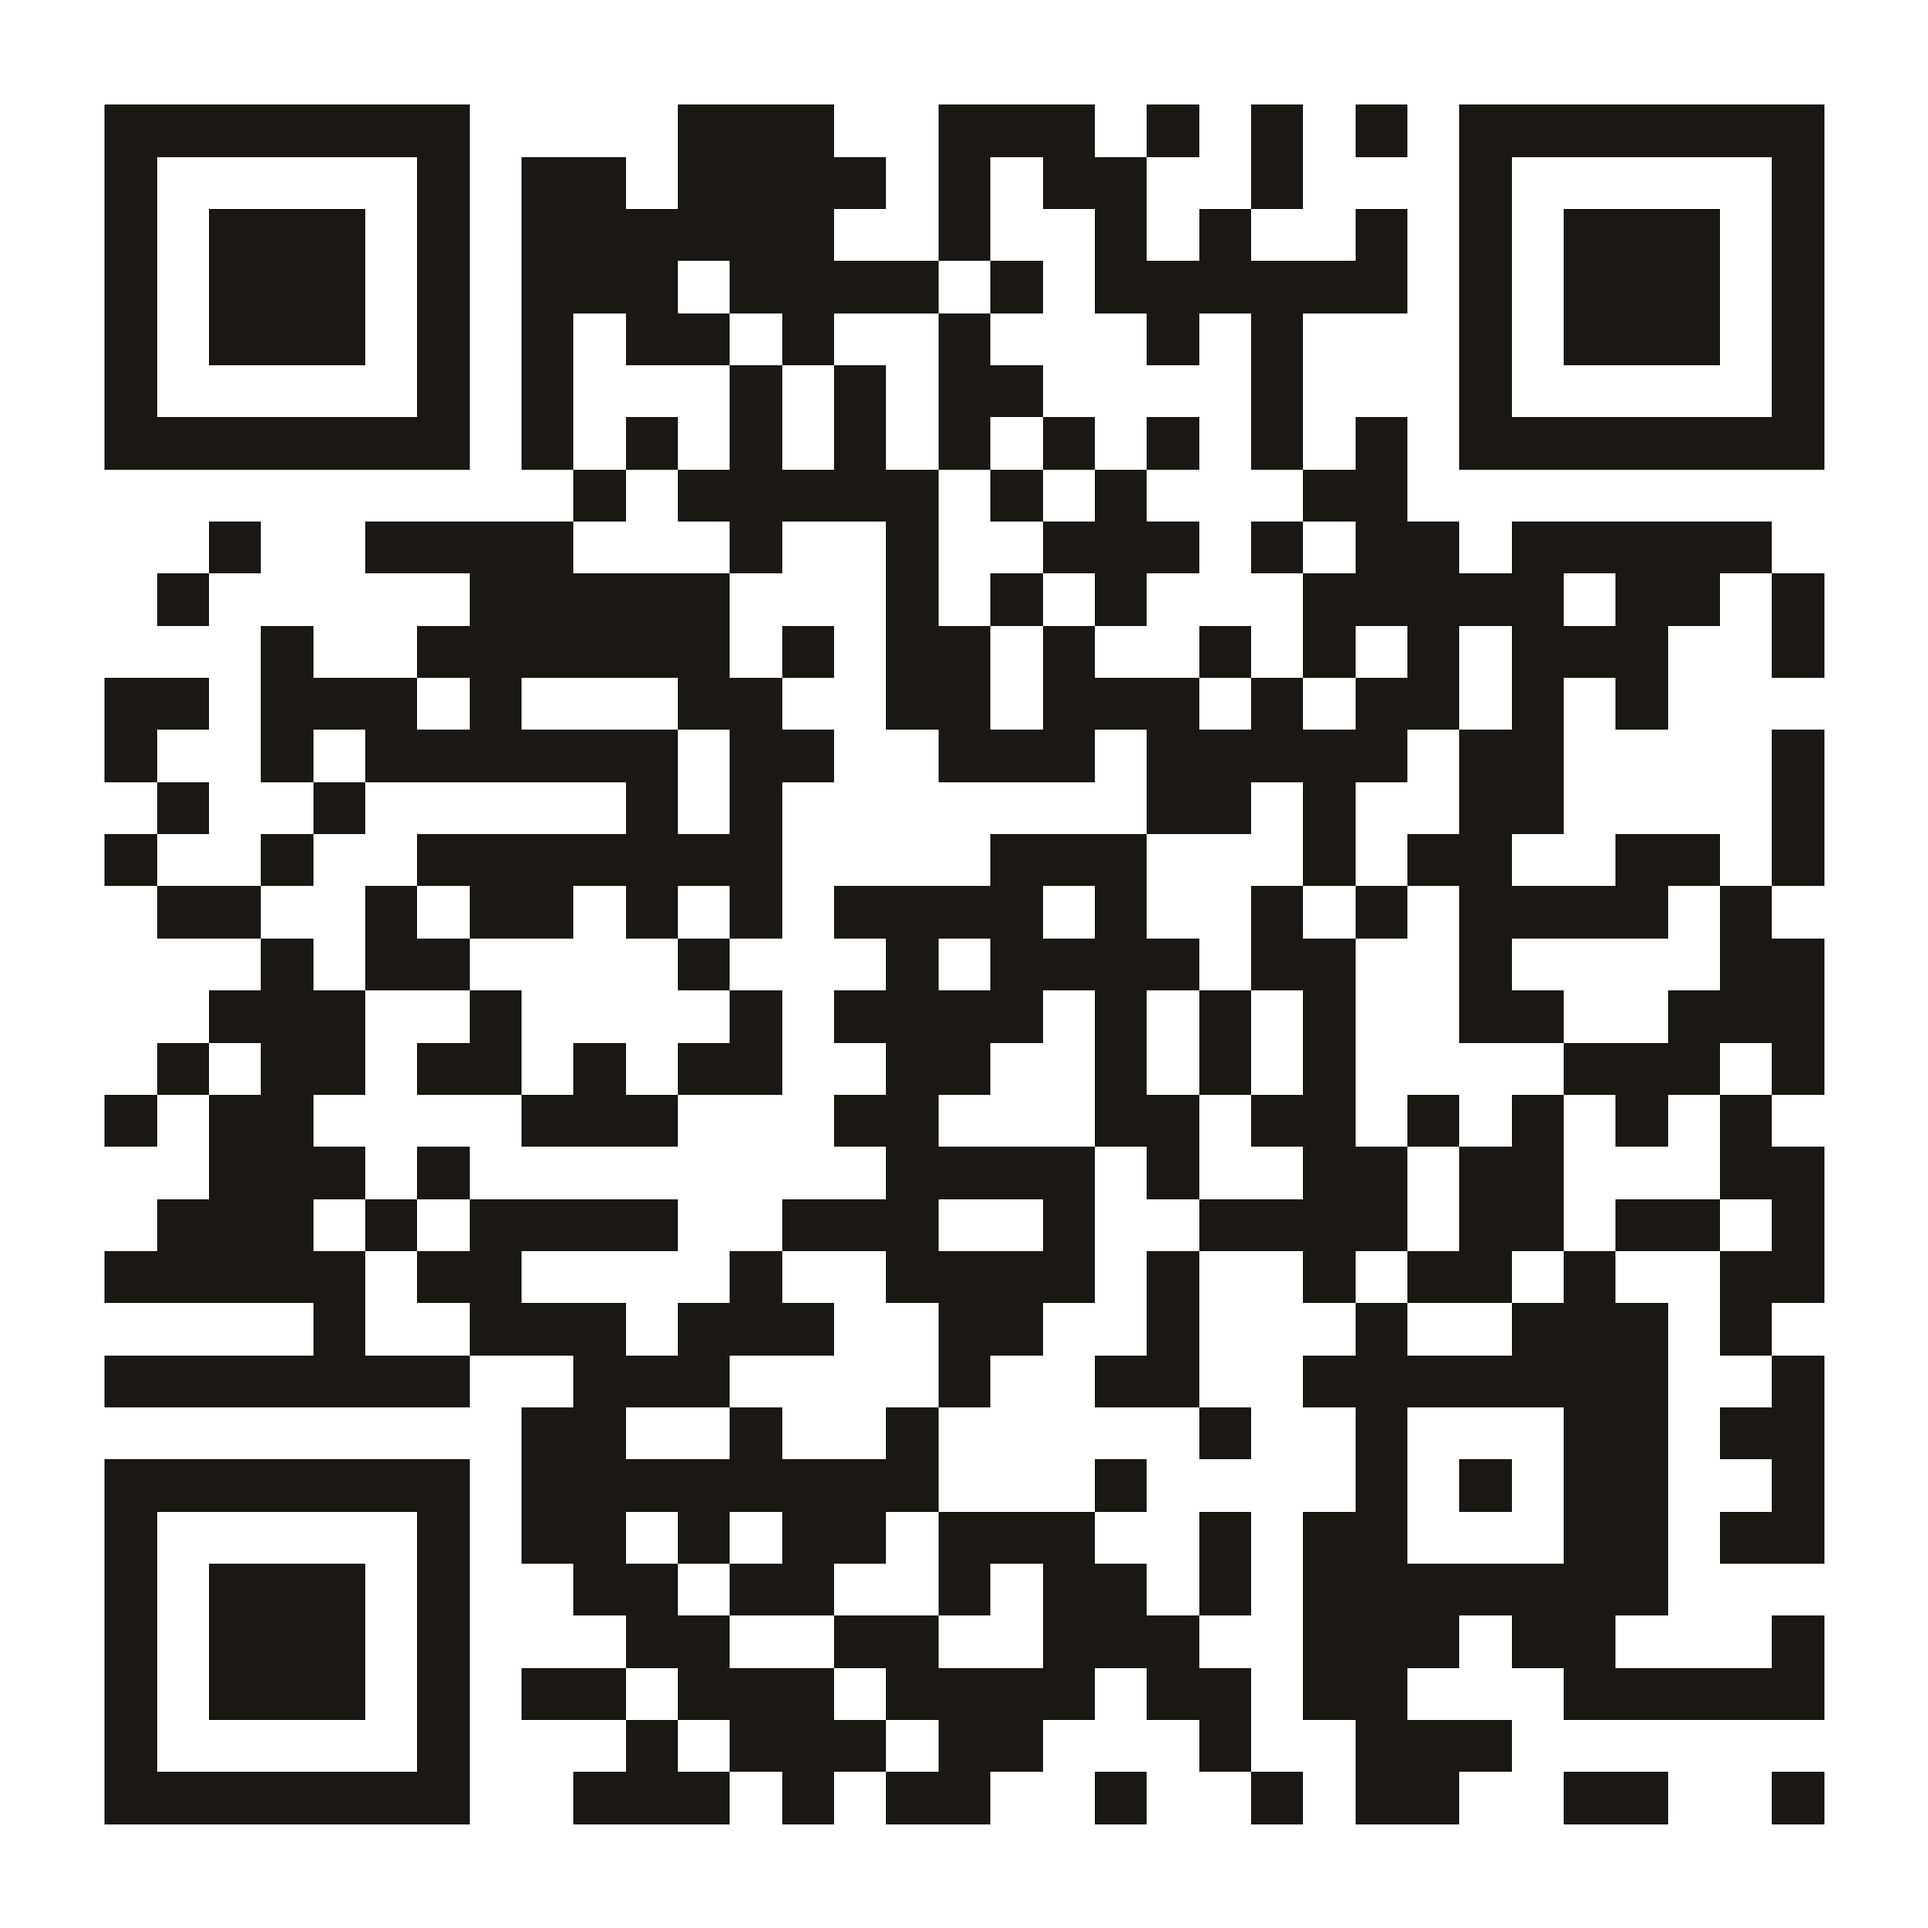
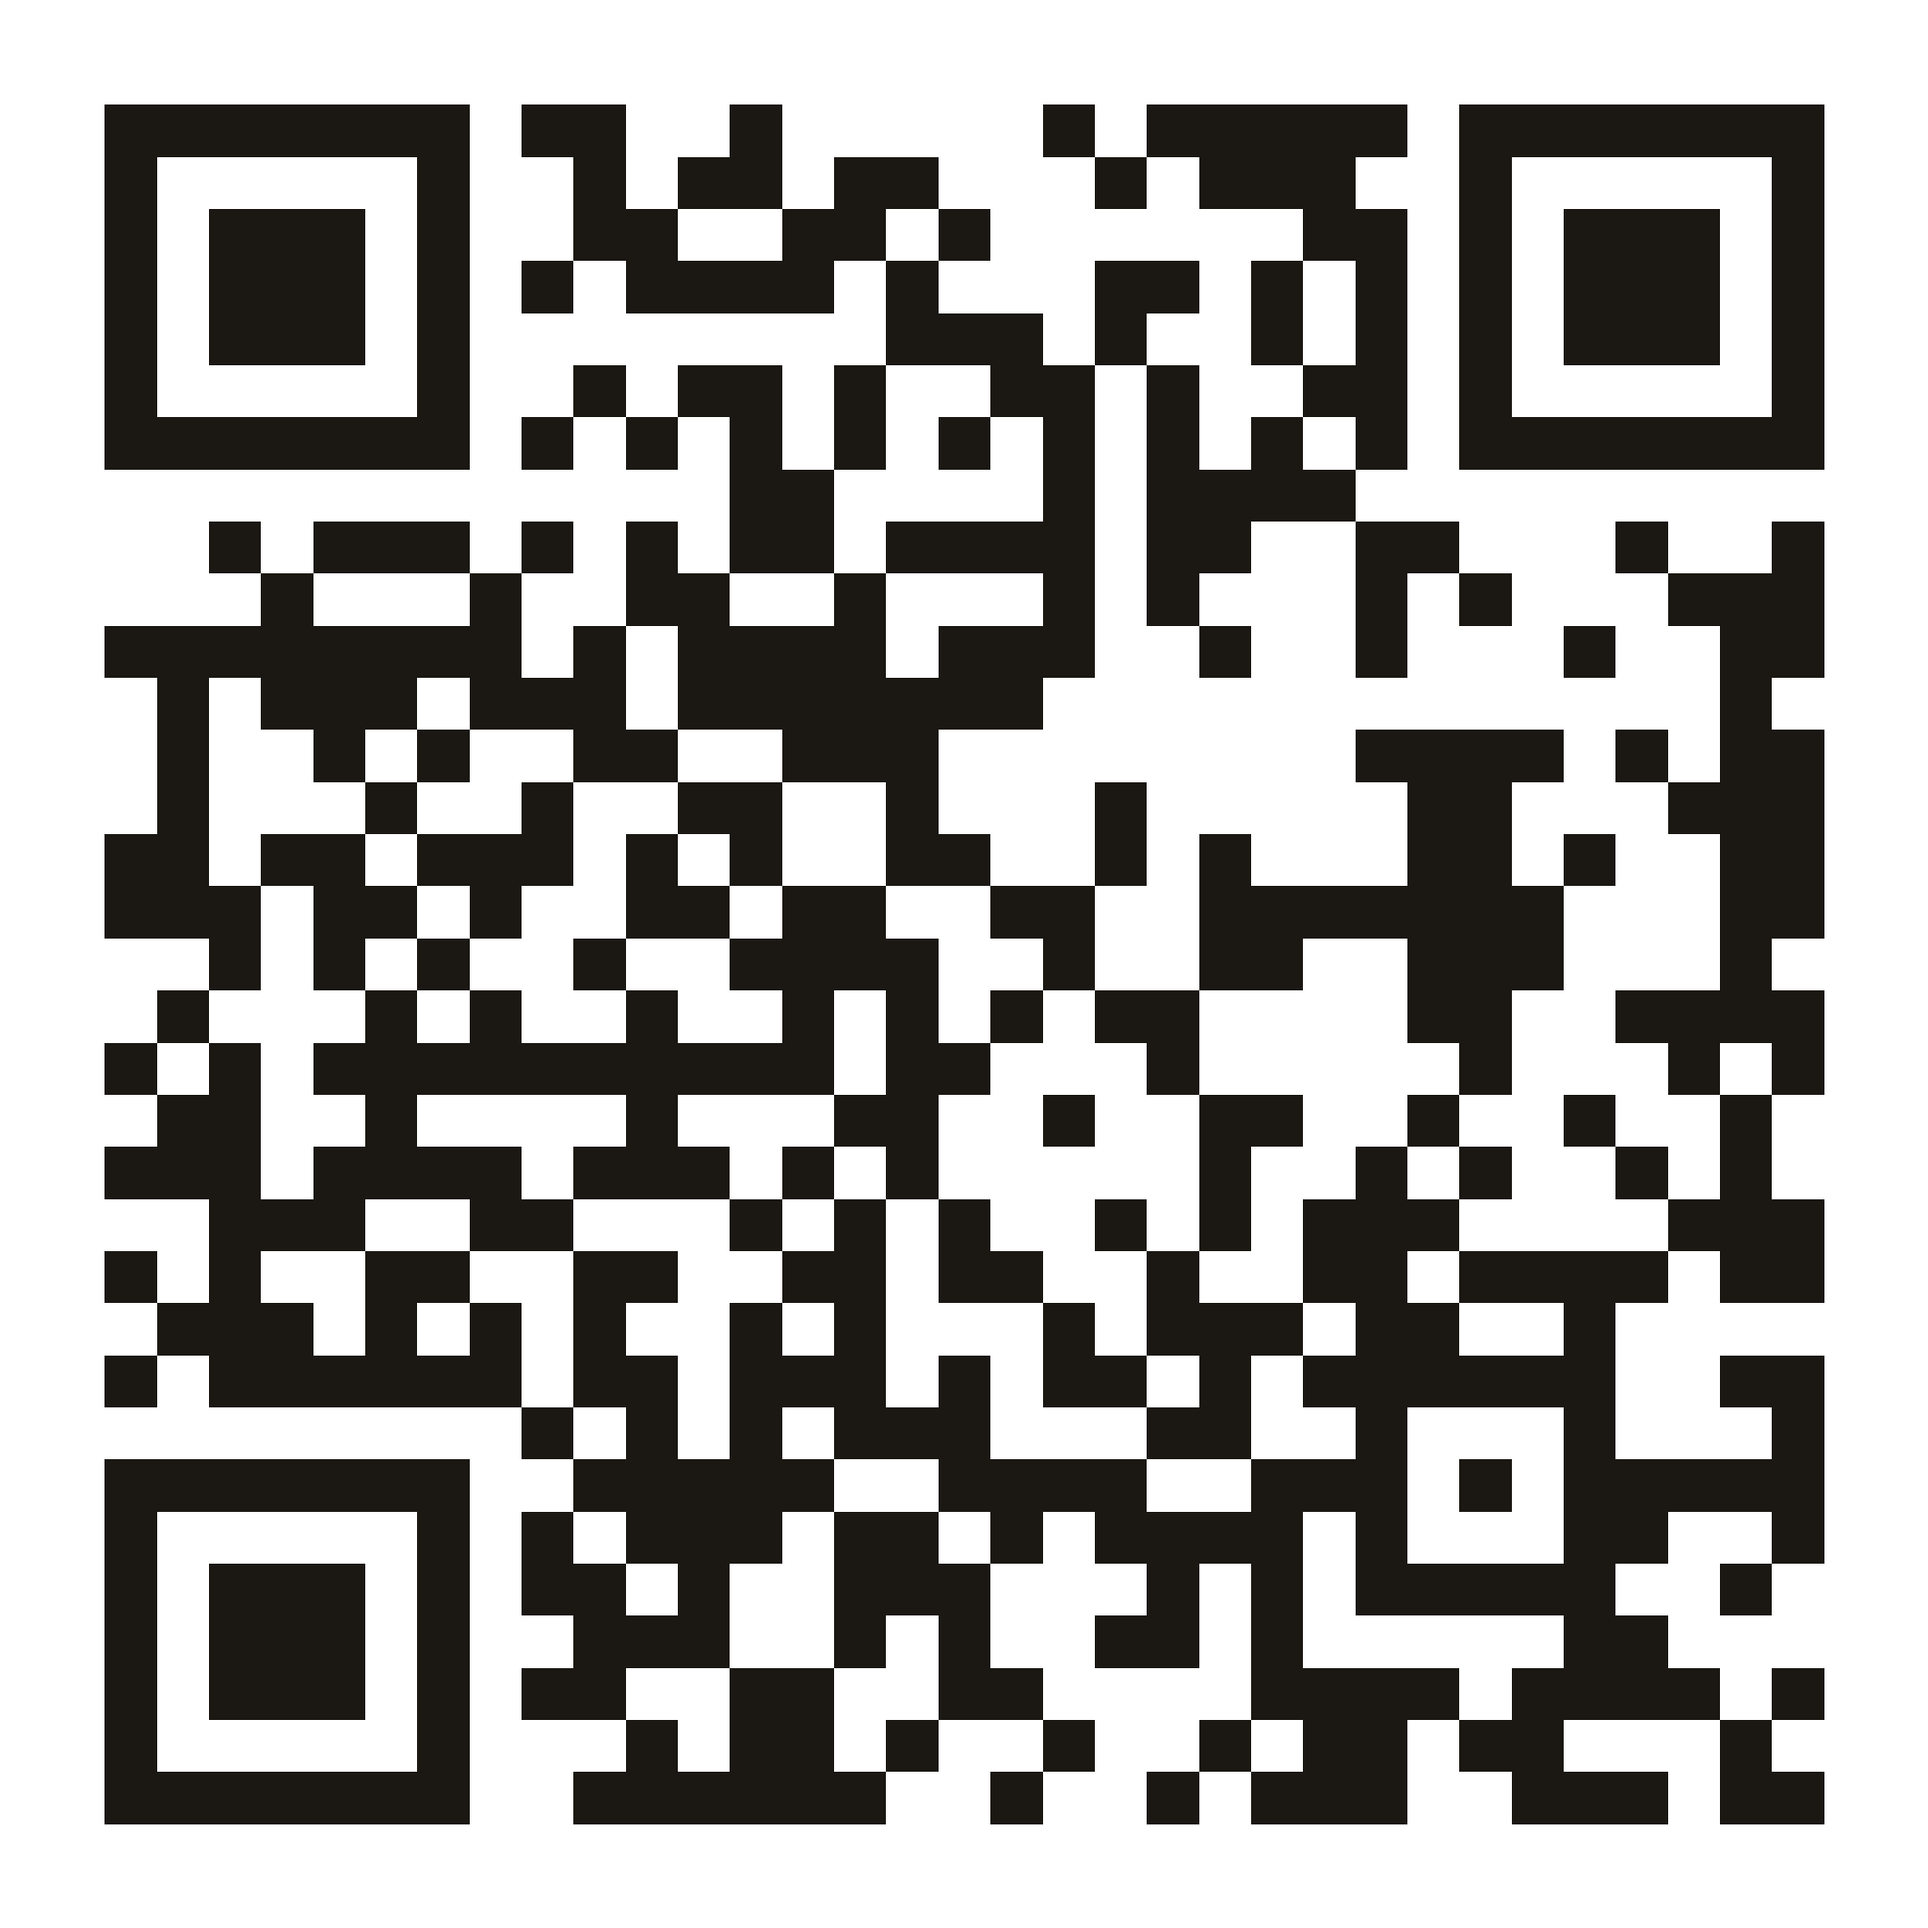
Point the QR code at the live standalone menu site
web-menu is deployed at tomine-menu.vercel.app, so the QR now goes there
instead of the menu page on the main site.

Adds .vercelignore — the CLI reads that rather than .gitignore, and
without it the deploy tried to upload 343MB of node_modules and aborted.
The project's Root Directory is web-menu and the build reaches into
../src for the menu data and dish photos.

Verified the live site renders all 39 dishes with no broken images, and
decoded the generated PNG back to the URL before committing it.

Claude-Session: https://claude.ai/code/session_01WJzkpMLo2kupPcpMSZqWHp

Changed region(s): [[0.0312, 0.0312, 0.9688, 0.9688]]

diff --git a/qr/README.md b/qr/README.md
@@ -1,7 +1,7 @@
 # Menu QR code
 
-Points at **https://tomine-mu.vercel.app/menu** — the menu page on the main
-site, which is live now.
+Points at **https://tomine-menu.vercel.app** — the standalone menu site built
+from `web-menu/`.
 
 | file | use |
 | --- | --- |
@@ -12,11 +12,19 @@ Error correction is level **H**, so the code still scans with up to 30% of it
 damaged. That matters on a restaurant table, and it leaves room to drop the
 Tomine logo into the middle without breaking the scan.
 
-## Before printing a batch
+## Keeping it working
 
-The URL is baked into the pattern — changing where it points means reprinting
-everything. If the standalone menu site in `web-menu/` is going live, or the
-restaurant is getting its own domain, settle that **first** and regenerate.
+The URL is baked into the pattern, so the code keeps working for exactly as
+long as `tomine-menu.vercel.app` keeps resolving. Two things would break it:
+
+1. **The Vercel project is renamed or deleted.** The subdomain goes with it.
+2. **The Vercel account lapses or is closed.**
+
+A `vercel.app` subdomain does not expire on its own and there is nothing to
+renew, but it is tied to that account. The only way to be genuinely
+reprint-proof is a **custom domain Tomine owns** (e.g. `menu.tomine.ng`)
+pointed at the project — then hosting can change without touching a single
+printed code.
 
 ## Regenerating
 
@@ -25,9 +33,18 @@ npx -y qrcode -o qr/tomine-menu-qr.png -e H -w 2048 "<url>"
 npx -y qrcode -t svg -o qr/tomine-menu-qr.svg -e H "<url>"
 ```
 
-Then scan it with a phone before sending it to print.
+Always scan the result with a real phone before sending it to print.
 
 ## Print sizing
 
-Keep it at least 3cm across for a table card, 2cm minimum. Leave the white
+At least 3cm across for a table card, 2cm absolute minimum. Keep the white
 border — scanners need that quiet zone to find the code.
+
+## Redeploying the menu site
+
+```sh
+npx vercel deploy --prod --yes
+```
+
+Run from the repo root. The project's Root Directory is `web-menu`, and the
+build reaches into `../src` for the menu data and dish photos.
